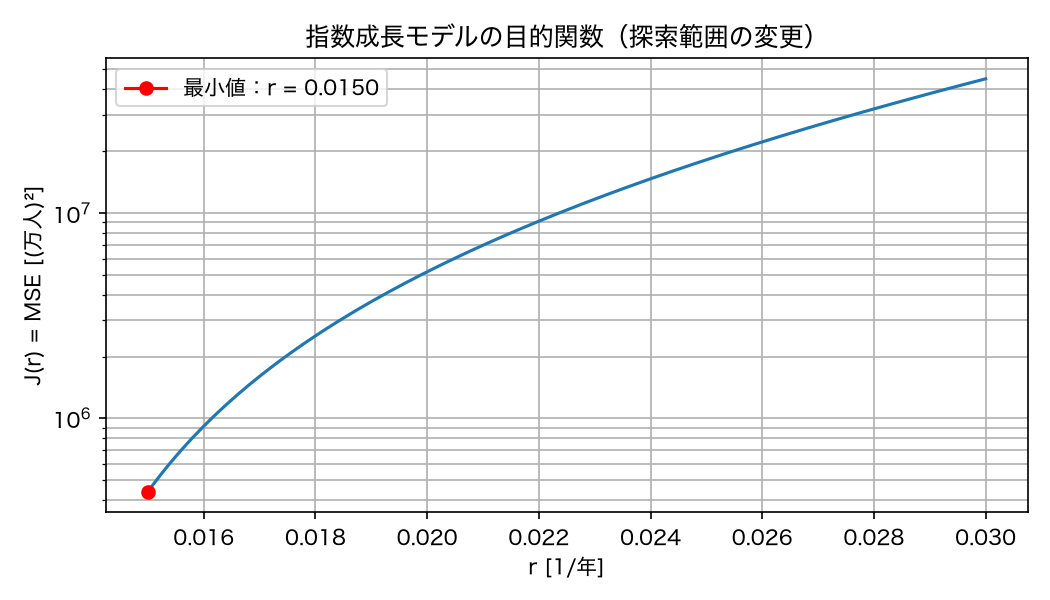
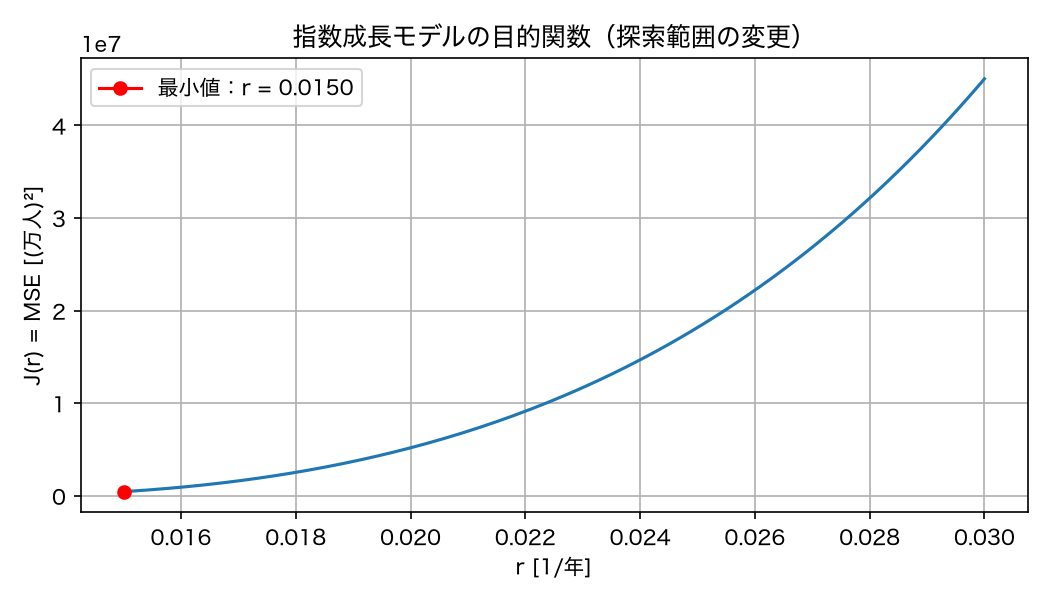
done 5

diff --git a/AGENTS.md b/AGENTS.md
@@ -18,6 +18,7 @@
 
 - dropdown内には節見出し（`#`〜`######`）を置かず，内容の区分には太字の小見出しや番号を使う．コード例内の見出し文字列は対象外とする．
 - コードは処理の役割ごとに分割し，特に計算と描画を別ブロックにする．順に実行できる依存関係を保つ．
+- 各コードブロックの直前に，何を計算・描画・確認するのかを説明する短い文章を置く．見出しや前のコードの出力例だけで次のコードにつなげない．コード後の補足では関数・引数・手法の意味を説明し，実行前の説明と役割を分ける．解答例にも同じ方針を適用する．
 - コードの解説は，該当するコードブロックの直後に置く．描画の説明も「コードの補足」に含める．複数ブロックの説明を離れた場所にまとめない．
 - 初出の関数・引数・描画技法には短い意味の説明を付ける．既習事項の説明やコードの逐語的な言い換えをむやみに増やさない．
 - MySTでは，3行以上になるコードの補足をdropdownにまとめる．基本の配置は「コード → コードの補足 → 出力図」とする．
